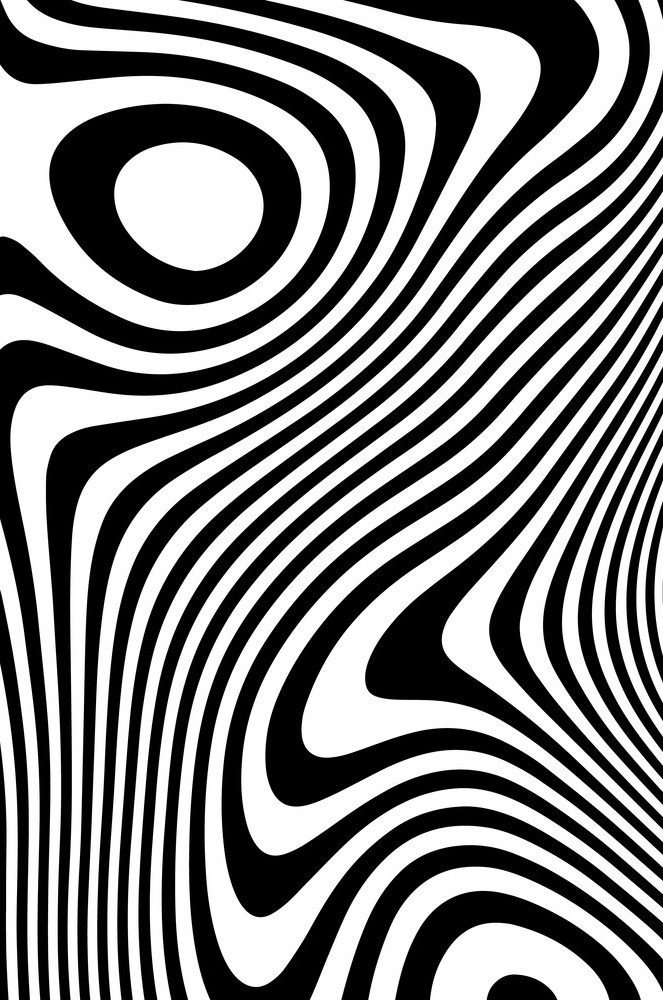
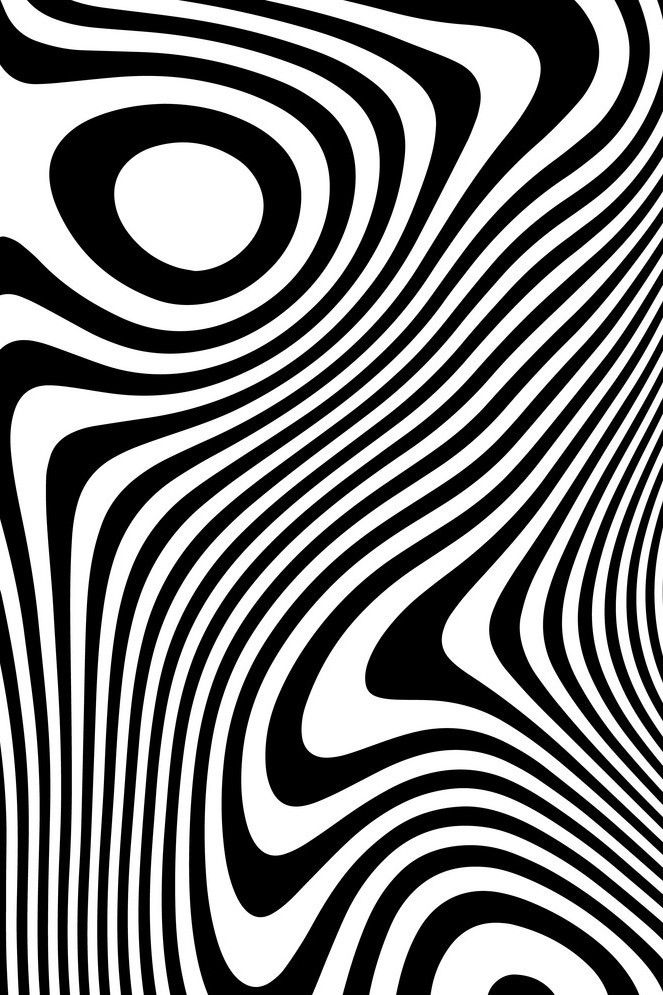
Third Commit - Update UI of add page as well as some details regarding the layout of the cards.

diff --git a/static/styles.css b/static/styles.css
@@ -13,12 +13,7 @@ body {
 
 /* Navbar */
 .navbar {
-    background-image: 
-        linear-gradient(
-            rgba(143, 81, 31, 0.9) 0%,
-            rgba(10, 62, 131, 0.97) 70%
-        ),
-        url('/static/format/cardback.jpg');
+    background-color:rgb(31, 83, 161);
 }
 
 .navbar .nav-link {
